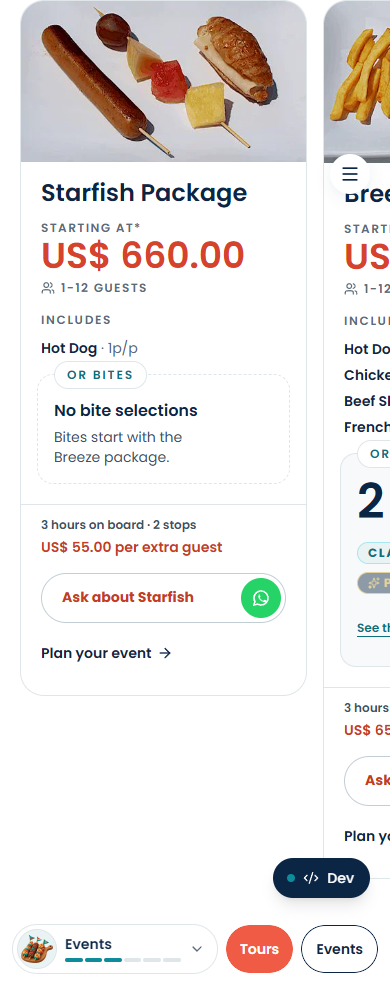
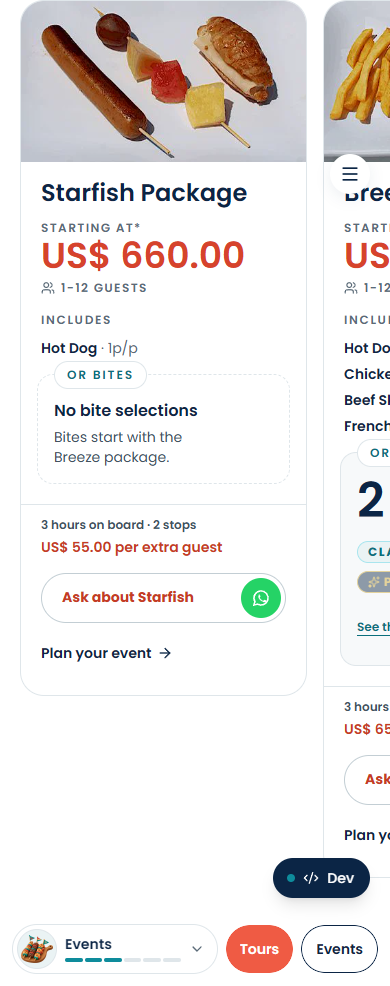
Canapés: bloque superior de la carta en 3 segundos, sin la tabla (Samuel, 12/11)
- Arriba solo título y una frase («Your package sets how many you pick from
  each family»). Las tres reglas bajan a una línea de letra pequeña bajo las
  cajas.
- Fuera la tabla «What each package includes»: repetía las cajas «Or bites» y
  el «Included in…» de cada familia, y sus subtítulos Standard/Premium/VIP
  chocaban con la familia Premium.
- Misma colisión en las cajas «Or bites»: de los niveles solo se enseña el VIP
  (CANAPES_TEXTOS.tarjeta.nivelesVisibles); los niveles siguen en los datos.

diff --git a/app/src/components/comida-y-bar-v3/carta-canapes-v3.tsx b/app/src/components/comida-y-bar-v3/carta-canapes-v3.tsx
@@ -1,5 +1,5 @@
 import { useId, useState } from 'react'
-import { Check, Sparkles } from 'lucide-react'
+import { Sparkles } from 'lucide-react'
 import { CANAPES, CANAPES_TEXTOS, PAQUETES_COMIDA, cortoPaqueteComida, type FamiliaCanapes } from '@/data/eventos'
 import { t } from '@/lib/i18n'
 
@@ -35,6 +35,13 @@ import { t } from '@/lib/i18n'
 // SU CAJA: Classic en el tinte aqua (claro, fresco, de marca) y Premium en
 // navy con oro, la piel del Turtle. En móvil el selector sigue mandando: enseña
 // una caja u otra, y su pestaña activa toma el color de su caja.
+//
+// [2026-11-12, 4ª vuelta, Samuel: «todo el bloque superior… y ese bloque a la
+// derecha me confunde»] Fuera la tabla «What each package includes»: repetía
+// lo que ya dicen las cajas «Or bites» de las tarjetas y el «Included in…» de
+// cada familia, y sus subtítulos Standard/Premium/VIP chocaban con la familia
+// Premium (el Tide salía como «Premium»). Arriba queda UN título y UNA frase;
+// las tres reglas bajan a una línea de letra pequeña bajo las cajas.
 const C = CANAPES_TEXTOS.carta
 const PAQUETES = [...PAQUETES_COMIDA].sort((a, b) => (a.precioBase ?? 0) - (b.precioBase ?? 0))
 
@@ -101,62 +108,6 @@ function Familia({ f }: { f: FamiliaCanapes }) {
   )
 }
 
-/** Paquete × familia. Celda vacía = «—» (con texto para lectores). */
-function TablaAcceso() {
-  const A = C.acceso
-  const celda = (n: number, familia: IdFamilia) =>
-    n > 0 ? (
-      <span className={`comida3-acceso-n comida3-acceso-n--${familia}`}>{n}</span>
-    ) : (
-      <span className="text-navy-soft">
-        <span aria-hidden="true">—</span>
-        <span className="sr-only">{t(CANAPES_TEXTOS.tarjeta.noIncluida)}</span>
-      </span>
-    )
-  return (
-    <div className="comida3-acceso">
-      <table className="w-full text-left text-sm">
-        <caption className="comida3-acceso-titulo">{t(A.titulo)}</caption>
-        <thead>
-          <tr>
-            <th scope="col" className="comida3-acceso-th">{t(A.paquete)}</th>
-            <th scope="col" className="comida3-acceso-th text-center">
-              <Pastilla familia="classic" />
-            </th>
-            <th scope="col" className="comida3-acceso-th text-center">
-              <Pastilla familia="premium" />
-            </th>
-            <th scope="col" className="comida3-acceso-th text-right">{t(A.total)}</th>
-          </tr>
-        </thead>
-        <tbody>
-          {PAQUETES.map((p) => {
-            const b = p.bocados
-            const total = (b?.classic ?? 0) + (b?.premium ?? 0)
-            return (
-              <tr key={p.id} className="border-t border-linea">
-                <th scope="row" className="py-3 pr-2 font-display text-base font-semibold text-navy">
-                  {t(cortoPaqueteComida(p))}
-                  {b?.nivel ? <span className="block font-sans text-xs font-medium text-navy-soft sm:ml-2 sm:inline">{t(b.nivel)}</span> : null}
-                </th>
-                <td className="py-3 text-center">{celda(b?.classic ?? 0, 'classic')}</td>
-                <td className="py-3 text-center">{celda(b?.premium ?? 0, 'premium')}</td>
-                <td className="py-3 text-right text-navy">
-                  {total > 0 ? (
-                    <span className="font-semibold">{total}</span>
-                  ) : (
-                    <span className="text-xs text-navy-soft">{t(A.soloAlmuerzo)}</span>
-                  )}
-                </td>
-              </tr>
-            )
-          })}
-        </tbody>
-      </table>
-    </div>
-  )
-}
-
 export function CartaCanapesV3() {
   const [activa, setActiva] = useState<IdFamilia>('classic')
   const base = useId()
@@ -164,21 +115,10 @@ export function CartaCanapesV3() {
 
   return (
     <div id="bites" className="ancla-comida comida3-canapes mt-20 lg:mt-24">
-      <div className="grid grid-cols-1 gap-8 lg:grid-cols-2 lg:items-start lg:gap-16" data-museo-revelar>
-        <div>
-          <p className="comida3-eyebrow">{t(C.eyebrow)}</p>
-          <h3 className="comida3-h2 mt-3">{t(C.titulo)}</h3>
-          <p className="mt-4 text-lead text-navy-sub">{t(C.texto)}</p>
-          <ul className="mt-6 grid gap-2.5 text-sm text-navy-sub">
-            {C.reglas.map((r) => (
-              <li key={r} className="flex gap-2.5">
-                <Check className="mt-0.5 size-4 shrink-0 text-aqua-dark" aria-hidden="true" />
-                {t(r)}
-              </li>
-            ))}
-          </ul>
-        </div>
-        <TablaAcceso />
+      <div className="max-w-2xl" data-museo-revelar>
+        <p className="comida3-eyebrow">{t(C.eyebrow)}</p>
+        <h3 className="comida3-h2 mt-3">{t(C.titulo)}</h3>
+        <p className="mt-4 text-lead text-navy-sub">{t(C.texto)}</p>
       </div>
 
       {/* Selector de familia: solo móvil y tableta. */}
@@ -229,6 +169,11 @@ export function CartaCanapesV3() {
           )
         })}
       </div>
+
+      {/* Las tres reglas, como letra pequeña (antes, viñetas arriba). */}
+      <p className="mx-auto mt-8 max-w-3xl text-center text-xs leading-relaxed text-navy-soft">
+        {C.reglas.map((r) => t(r)).join(' · ')}
+      </p>
     </div>
   )
 }

diff --git a/app/src/data/eventos.ts b/app/src/data/eventos.ts
@@ -561,7 +561,7 @@ export const nombrePaqueteComida = (p: PaqueteEvento) =>
   USAR_NOMBRE_TURTLE && p.id === 'premium' ? NOMBRE_TURTLE : p.nombre
 
 /** [2026-11-12, 2ª vuelta] El nombre CORTO en la sección de canapés (botón,
- *  tabla de acceso, «Included in…»). El del paquete ancla es «Premium», que
+ *  «Included in…»). El del paquete ancla es «Premium», que
  *  aquí se confundiría con la familia Premium de canapés: se dice «Turtle»,
  *  que es la otra mitad de su nombre («Premium (Turtle) Package») y como lo
  *  llama Party Boat. El título de la tarjeta no cambia. */
@@ -681,6 +681,11 @@ export const CANAPES_TEXTOS = {
     // básicas y cuáles las Premium»] Cada fila dice de QUÉ lista sale.
     deVariedades: 'varieties',
     noIncluida: 'Not included',
+    // [4ª vuelta, Samuel: Standard/Premium/VIP «chocan con la familia
+    // Premium»] De los niveles de Fernando solo se ENSEÑA el VIP (la
+    // presentación especial del Turtle): «Premium» junto al Tide se leía como
+    // la familia Premium. Los niveles siguen en `bocados.nivel` para /events.
+    nivelesVisibles: ['VIP'],
     verCarta: 'See the 28 bites',
     preguntar: 'Ask about {paquete}',
     planear: 'Plan your event',
@@ -690,8 +695,8 @@ export const CANAPES_TEXTOS = {
   carta: {
     eyebrow: 'Bites menu',
     titulo: '28 bites, in two families',
-    texto:
-      'Classic and Premium, each with seven hot and seven cold varieties. Your package sets how many you choose from each family.',
+    // [4ª vuelta] Una sola frase: el resto lo dicen las cajas de abajo.
+    texto: 'Your package sets how many you pick from each family.',
     familias: 'Bite families',
     // Las «condiciones comerciales sugeridas» de DISTRIBUCION CANAPES.docx,
     // tal como las publica Party Boat. ⚠ El documento las llama «sugeridas»:
@@ -702,14 +707,6 @@ export const CANAPES_TEXTOS = {
       'The pieces per guest are set with our Events Team.',
     ],
     variedades: 'varieties',
-    // [2ª vuelta] La tabla «qué paquete da acceso a qué familia», que sale
-    // de los `bocados` de PAQUETES_COMIDA (no se escribe a mano).
-    acceso: {
-      titulo: 'What each package includes',
-      paquete: 'Package',
-      total: 'Total',
-      soloAlmuerzo: 'Lunch only',
-    },
     // {paquetes} = «Breeze, Tide and Turtle», sacado de los datos.
     incluidoEn: 'Included in {paquetes}',
     y: 'and',

diff --git a/app/src/styles/comida-y-bar-v3.css b/app/src/styles/comida-y-bar-v3.css
@@ -1160,7 +1160,7 @@
 /* ---------- Canapés, 2ª vuelta (2026-11-12): que se lea qué es Classic y qué
    Premium ---------- */
 /* UN código de color para las dos familias, el mismo en las cajas «Or bites»,
-   la tabla de acceso, las cabeceras de familia y las fotos de cada lista:
+   las cabeceras de familia y las fotos de cada lista:
    Classic = aqua (el acento de marca, en su tinte), Premium = navy con oro
    (el mismo trato que el Turtle). */
 .comida3-familia {
@@ -1208,53 +1208,3 @@
   opacity: 0.45;
 }
 
-/* La tabla «What each package includes». */
-.comida3-acceso {
-  border: 1px solid var(--color-linea);
-  border-radius: var(--radius-card-grande);
-  background: var(--color-papel-hueso);
-  padding: calc(var(--spacing) * 5) calc(var(--spacing) * 5) calc(var(--spacing) * 2);
-}
-.comida3-acceso-titulo {
-  caption-side: top;
-  padding-bottom: calc(var(--spacing) * 3);
-  text-align: left;
-  font-size: var(--text-xs);
-  font-weight: 600;
-  letter-spacing: 0.18em;
-  text-transform: uppercase;
-  color: var(--color-navy);
-}
-.comida3-acceso-th {
-  padding-bottom: calc(var(--spacing) * 3);
-  font-size: var(--text-eyebrow);
-  font-weight: 600;
-  letter-spacing: 0.14em;
-  text-transform: uppercase;
-  color: var(--color-navy-soft);
-}
-.comida3-acceso-n {
-  display: inline-grid;
-  place-items: center;
-  width: calc(var(--spacing) * 8);
-  height: calc(var(--spacing) * 8);
-  border-radius: var(--radius-chip);
-  font-weight: 700;
-}
-.comida3-acceso-n--classic {
-  background: var(--color-aqua-tint);
-  color: var(--color-aqua-dark);
-}
-.comida3-acceso-n--premium {
-  background: var(--color-navy);
-  color: var(--color-premium-oro);
-}
-@media (width < 40rem) {
-  .comida3-acceso {
-    padding-inline: calc(var(--spacing) * 4);
-  }
-  .comida3-acceso .comida3-familia {
-    padding-inline: calc(var(--spacing) * 2);
-    letter-spacing: 0.08em;
-  }
-}

diff --git a/app/src/lib/i18n/es.ts b/app/src/lib/i18n/es.ts
@@ -3185,7 +3185,6 @@ export const ES: Record<string, string> = {
   "Hi! I’d like more information about the {paquete} for a private event.": "¡Hola! Quisiera más información sobre el {paquete} para un evento privado.",
   "Bites menu": "Carta de canapés",
   "28 bites, in two families": "28 canapés, en dos familias",
-  "Classic and Premium, each with seven hot and seven cold varieties. Your package sets how many you choose from each family.": "Classic y Premium, cada una con siete variedades calientes y siete frías. Tu paquete marca cuántas eliges de cada familia.",
   "Bite families": "Familias de canapés",
   "Swap hot for cold inside the same family.": "Cambia caliente por frío dentro de la misma familia.",
   "Add extra varieties for a per-person supplement.": "Añade variedades extra con un suplemento por persona.",
@@ -3227,10 +3226,9 @@ export const ES: Record<string, string> = {
   "Sushi California Roll": "Roll de sushi California",
   "Fish Ceviche": "Ceviche de pescado",
   "Turtle Package": "Turtle Package",
-  // [2026-11-12, 2ª vuelta] Canapés: tabla de acceso y familias.
+  // [2026-11-12, 2ª y 4ª vuelta] Canapés: familias y bloque superior.
+  "Your package sets how many you pick from each family.": "Tu paquete marca cuántos eliges de cada familia.",
   "See the 28 bites": "Ver los 28 canapés",
-  "What each package includes": "Qué incluye cada paquete",
-  "Lunch only": "Solo almuerzo",
   "Included in {paquetes}": "Incluido en {paquetes}",
   "and": "y",
   "{caliente} + {fria}": "{caliente} + {fria}",

diff --git a/app/src/components/comida-y-bar-v3/eventos-v3.tsx b/app/src/components/comida-y-bar-v3/eventos-v3.tsx
@@ -65,12 +65,14 @@ function CajaBocados({ p, primeroConBocados, premium }: { p: PaqueteEvento; prim
             {t(B.selecciones)}
           </span>
         </p>
-        <p
-          className={`inline-flex items-center gap-1.5 font-display text-lg font-semibold ${premium ? 'text-premium-oro' : 'text-navy'}`}
-        >
-          {premium ? <Sparkles className="size-4" aria-hidden="true" /> : null}
-          {t(b.nivel)}
-        </p>
+        {B.nivelesVisibles.includes(b.nivel) ? (
+          <p
+            className={`inline-flex items-center gap-1.5 font-display text-lg font-semibold ${premium ? 'text-premium-oro' : 'text-navy'}`}
+          >
+            {premium ? <Sparkles className="size-4" aria-hidden="true" /> : null}
+            {t(b.nivel)}
+          </p>
+        ) : null}
       </div>
       <ul className="mt-4 grid gap-2">
         {filas.map((f) => (
